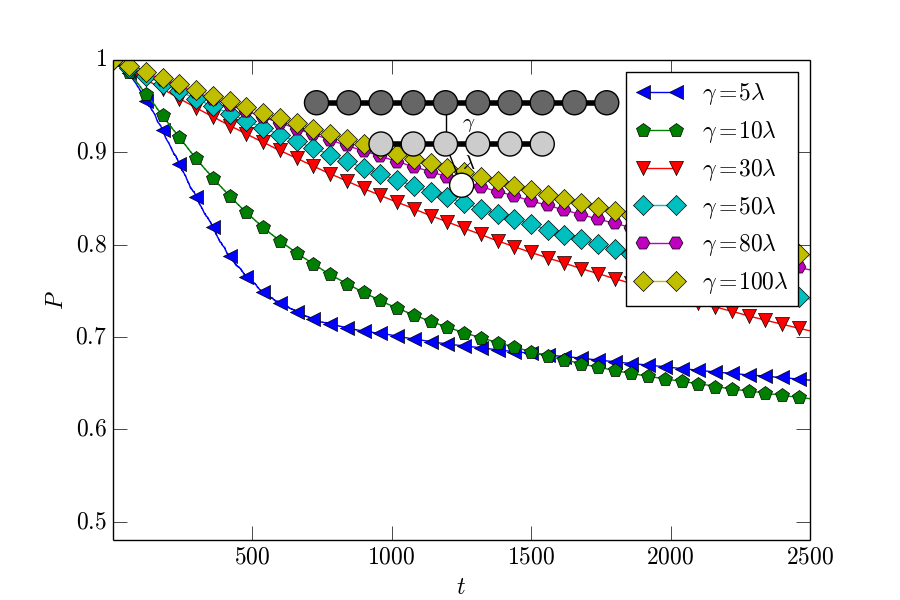
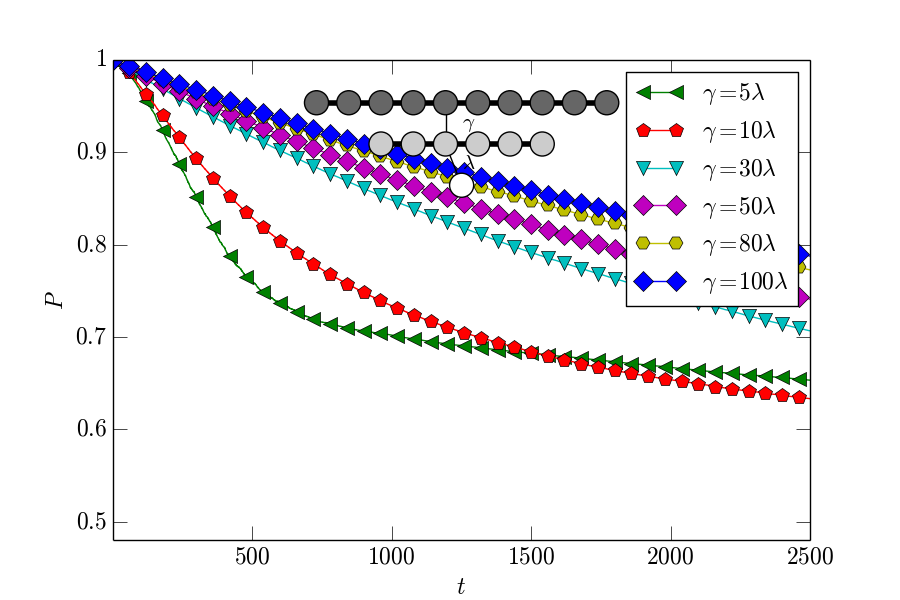
Figures

diff --git a/g1-2.py b/g1-2.py
@@ -47,7 +47,7 @@ fig=figure(figsize=(9, 6)) # in inches!
 
 conx=loadtxt("conexionesABC7.txt")
 conx=conx[1:]
-lines=['s-','<-','p-','v-','D-','H-','D-','h-','>-','H-','d-','x-','s-','+-']
+lines=['bs-','g<-','rp-','cv-','mD-','yH-','D-','h-','>-','H-','d-','x-','s-','+-']
 labels=['$\gamma=5\lambda$','$\gamma=10\lambda$','$\gamma=30\lambda$','$\gamma=50\lambda$','$\gamma=80\lambda$','$\gamma=100\lambda$','$\gamma=140\lambda$']
 
 
@@ -56,8 +56,8 @@ labels=['$\gamma=5\lambda$','$\gamma=10\lambda$','$\gamma=30\lambda$','$\gamma=5
 
 #labels=['$N_e=6$','$N_e=9$','$N_e=12$','$N_e=15$','$\gamma=0.5$','$\gamma=1.$','$\gamma=140$']
 for i in range(1,7) :
-  a=loadtxt("grafica1-3-Cpatead2"+str(i)+".dat")
-  plot(a,lines[i],markevery=60,label=labels[i-1],markersize=10)
+  a=loadtxt("grafica1-3-"+str(i)+".dat")
+  plot(a,lines[i-1],markevery=60,label=labels[i-1],markersize=10)
 
 
 xlabel("$t$",fontsize=17)
@@ -84,4 +84,4 @@ ax = axes([.28, .65, .43, .22])
 #ax = axes([.55, .1, .33, .22])
 nod.nodosABC_lamb_gamma_labels(conx,'-')
 
-savefig('C-pateado2.png')
+savefig('art-g1-3.png')
